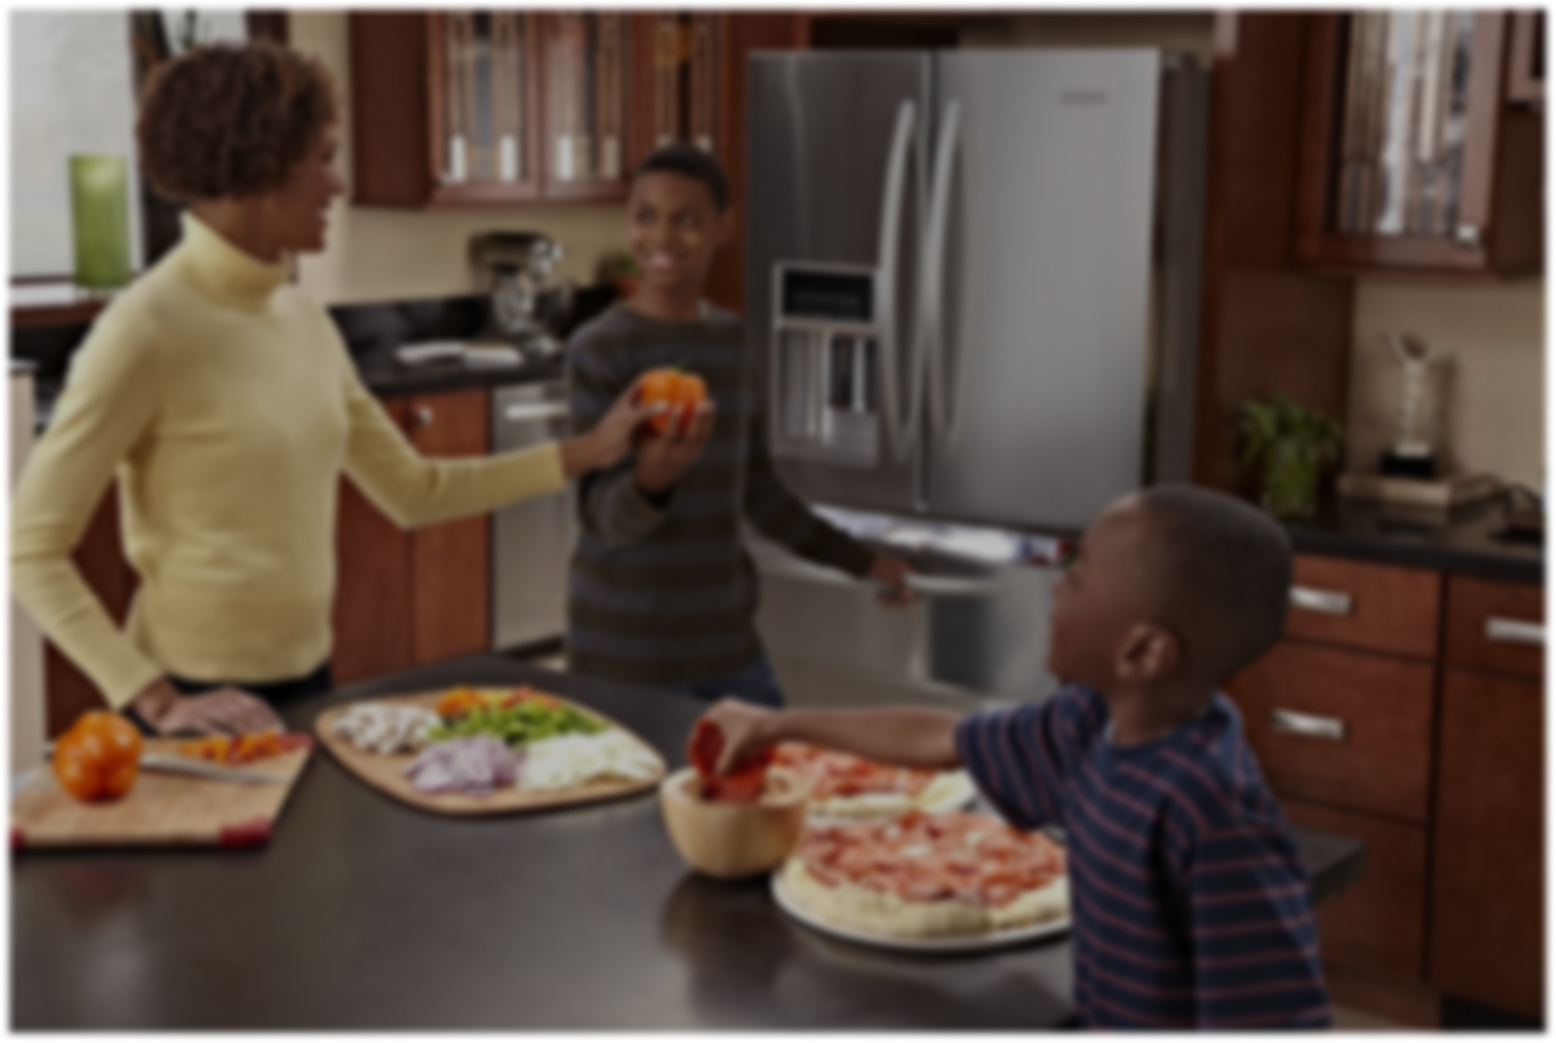
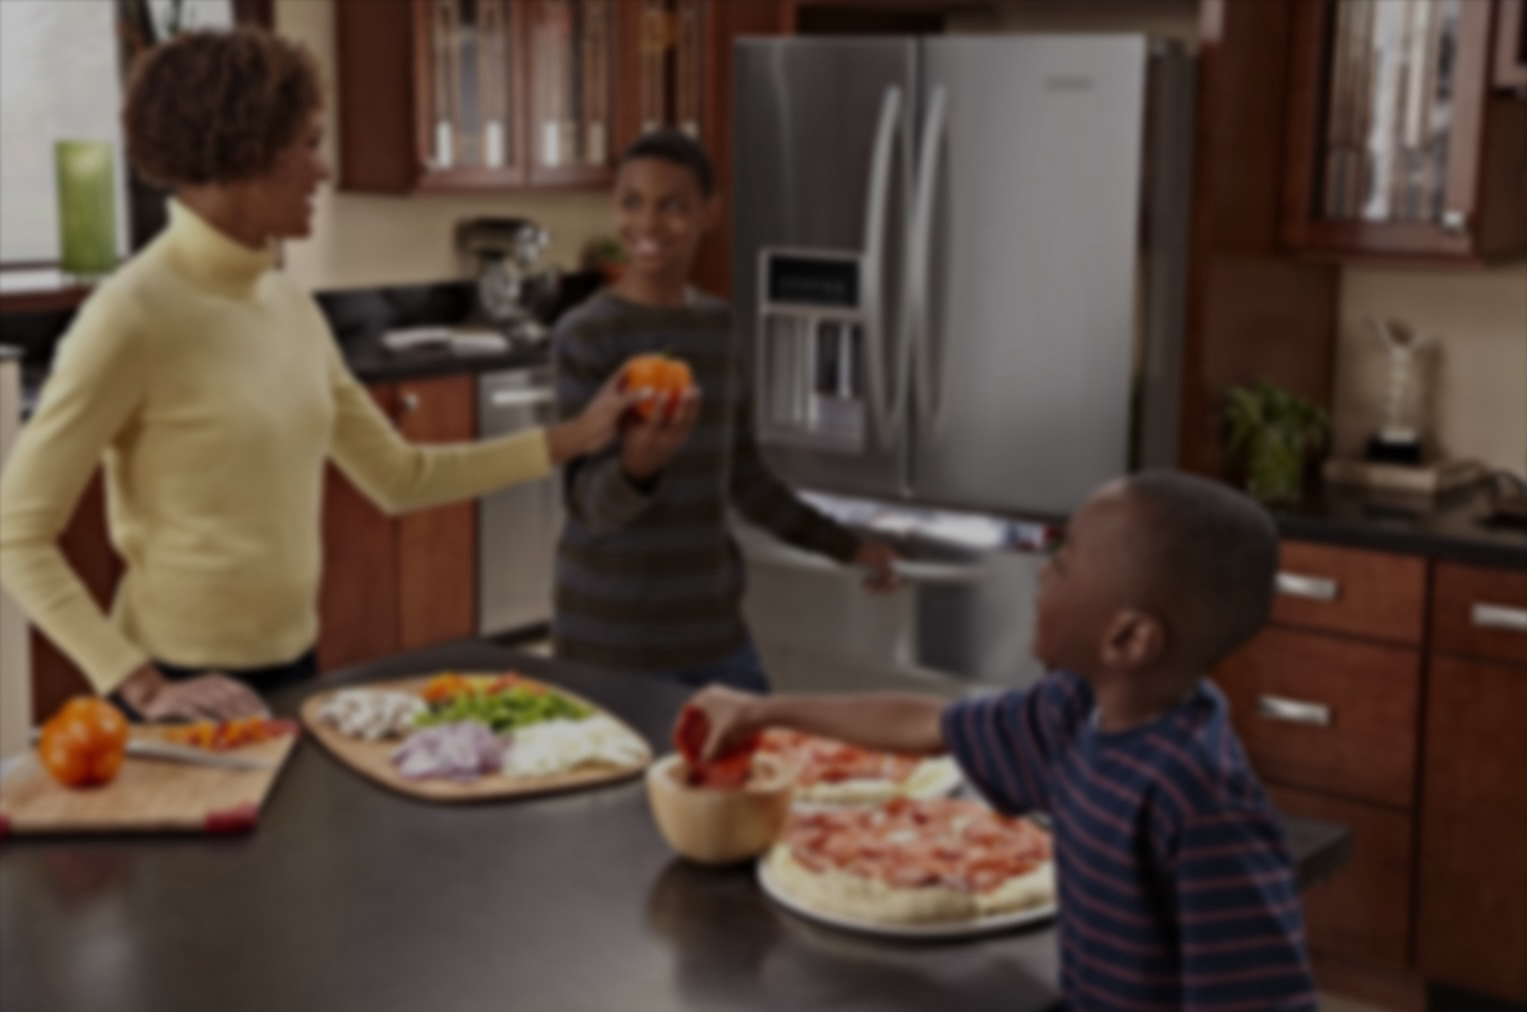
Authentication working with API, create a new layout now working and fixed the login page

diff --git a/WhirlpoolPromptWeb/wwwroot/css/site.css b/WhirlpoolPromptWeb/wwwroot/css/site.css
@@ -432,16 +432,6 @@ h3 {
   color: #3283cb;
 }
 
-.bg-image-column {
-  /* Asegúrate de que esta ruta apunte correctamente a tu imagen */
-  background-image: url("/images/login-bg.png");
-  background-size: cover;
-  /* Hace que la imagen cubra todo el espacio sin deformarse */
-  background-position: 15% 50%;
-  /* Centra la imagen */
-  background-repeat: no-repeat;
-}
-
 .btn-whirlpool {
   background-color: #4a919e;
   color: white;
@@ -463,12 +453,13 @@ h3 {
   color: #c98a18;
 }
 
-/* Solo aplica cuando existe .login-page en la página */
 body:has(.login-page) {
   overflow: hidden;
   height: 100%;
   margin: 0;
   padding: 0;
+  margin-bottom: 0;
+  background-color: #1a1a1a;
 }
 
 html:has(.login-page) {
@@ -478,7 +469,7 @@ html:has(.login-page) {
 
 .login-img-col {
   background-image: url("/images/login-bg.png");
-  background-size: 200%;
+  background-size: cover;
   /* ajusta hacia la izquierda */
   background-position: 1% 30%;
   background-repeat: no-repeat;
@@ -494,7 +485,6 @@ html:has(.login-page) {
   z-index: 2;
 }
 
-/* Login page: make the form a bit smaller and centered */
 .login-form-container {
   max-width: 700px;
   width: 100%;

diff --git a/WhirlpoolPromptWeb/Controllers/LoginController.cs b/WhirlpoolPromptWeb/Controllers/LoginController.cs
@@ -10,6 +10,14 @@ namespace WhirlpoolPromptWeb.Controllers;
 [Route("[controller]")]
 public class LoginController : Controller
 {
+
+    private readonly IAuthenticatorService _service;
+
+    public LoginController(IAuthenticatorService service)
+    {
+        _service = service;
+    }
+
     [HttpGet]
     [AllowAnonymous]
     public IActionResult Login()
@@ -19,73 +27,46 @@ public class LoginController : Controller
 
     [HttpPost]
     [AllowAnonymous]
-    public IActionResult Login(LoginModel model)
+    public async Task<IActionResult> Login(LoginModel model)
     {
         if (!ModelState.IsValid) return View(model);
 
         model.Email = model.Email.Trim();
         model.Password = model.Password.Trim();
 
-        bool userIsValid = UserAuthentication(model.Email, model.Password);
+        var userSession = await UserAuthentication(model.Email, model.Password);
 
-        if (userIsValid)
+        if (userSession != null)
         {
-            SetUserSession(1);
+            SetUserSession(userSession);
             return RedirectToAction("Check", "Login");
         }
 
         // agregar error si no se encuentra en la base de datos
-        ModelState.AddModelError(string.Empty, "Usuario o contraseña incorrectos.");
+        ModelState.AddModelError(string.Empty, "Correo o contraseña incorrectos.");
 
         return View(model);
 
+    }
+
+    private void SetUserSession(UserSession user)
+    {
+
+        HttpContext.Session.SetInt32("UserId", user.id_usuario);
+        HttpContext.Session.SetString("Name", user.nombre);
+        HttpContext.Session.SetString("ProfileAddr", user.imagen_perfil);
+        HttpContext.Session.SetInt32("Coins", user.saldo_total);
 
     }
 
-    private bool SetUserSession(int userID)
+
+    private async Task<UserSession> UserAuthentication(string email, string password)
     {
+        List<UserSession> userAuthentication = await _service.AuthenticateUserAPI(email, password);
+        if (userAuthentication == null || userAuthentication.Count == 0) return null;
 
-        UserSession user = getUserFromId(userID);
+        return userAuthentication[0];
 
-        HttpContext.Session.SetInt32("UserId", user.UserId);
-        HttpContext.Session.SetString("Name", user.Name);
-        HttpContext.Session.SetString("ProfileAddr", user.ProfileAddr);
-        HttpContext.Session.SetInt32("Coins", user.Coins);
-
-        return true;
-
-    }
-
-    private UserSession getUserFromId(int id)
-    {
-        UserSession user = new UserSession();
-
-        /* TODO: Obtener el user de la base de datos */
-        user.UserId = id;
-        user.Name = "Yoshi";
-
-        user.Coins = 67;
-
-        user.ProfileAddr = GetProfileAddr(ProfilePhoto.mario);
-
-        return user;
-    }
-
-    private string GetProfileAddr(ProfilePhoto profile)
-    {
-        switch (profile)
-        {
-            case ProfilePhoto.mario:
-                return "mario-bros.png";
-            default:
-                return "mario-bros.png";
-        }
-    }
-
-    private bool UserAuthentication(string user, string password)
-    {
-        // logica de autenticacion
-        return true;
     }
 
     [HttpGet("check")]
@@ -95,10 +76,10 @@ public class LoginController : Controller
 
         var model = new UserSession
         {
-            UserId = HttpContext.Session.GetInt32("UserId") ?? 0,
-            Name = HttpContext.Session.GetString("Name") ?? string.Empty,
-            ProfileAddr = HttpContext.Session.GetString("ProfileAddr") ?? string.Empty,
-            Coins = HttpContext.Session.GetInt32("Coins") ?? 0
+            id_usuario = HttpContext.Session.GetInt32("UserId") ?? 0,
+            nombre = HttpContext.Session.GetString("Name") ?? string.Empty,
+            imagen_perfil = HttpContext.Session.GetString("ProfileAddr") ?? string.Empty,
+            saldo_total = HttpContext.Session.GetInt32("Coins") ?? 0
         };
 
 

diff --git a/WhirlpoolPromptWeb/Services/AuthenticatorService.cs b/WhirlpoolPromptWeb/Services/AuthenticatorService.cs
@@ -1,0 +1,40 @@
+using System.Diagnostics;
+using System.Runtime.InteropServices;
+using System.Text.Json;
+using WhirlpoolPromptWeb.Models;
+
+public class AuthenticatorService : IAuthenticatorService
+{
+
+    private readonly HttpClient _httpClient;
+    public AuthenticatorService(HttpClient httpClient)
+    {
+        _httpClient = httpClient;
+    }
+
+    public async Task<List<UserSession>> AuthenticateUserAPI(string email, string password)
+    {
+        var url = "https://127.0.0.1:8081/authenticate";
+
+        var payload = new
+        {
+            email = email,
+            password = password
+        };
+
+        var json = JsonSerializer.Serialize(payload);
+
+        var content = new StringContent(json, System.Text.Encoding.UTF8,
+        "application/json");
+
+        var response = await _httpClient.PostAsync(url, content);
+
+        if (!response.IsSuccessStatusCode)
+            return new List<UserSession>();
+
+        var jsonResponse = await response.Content.ReadAsStringAsync();
+
+        return JsonSerializer.Deserialize<List<UserSession>>(jsonResponse) ?? new List<UserSession>();
+
+    }
+}

diff --git a/WhirlpoolPromptWeb/Program.cs b/WhirlpoolPromptWeb/Program.cs
@@ -2,6 +2,20 @@ var builder = WebApplication.CreateBuilder(args);
 
 // Add services to the container.
 builder.Services.AddControllersWithViews();
+
+builder.Services.AddHttpClient<IAuthenticatorService, AuthenticatorService>()
+.ConfigurePrimaryHttpMessageHandler(() =>
+new HttpClientHandler
+{
+    ServerCertificateCustomValidationCallback =
+HttpClientHandler.DangerousAcceptAnyServerCertificateValidator
+});
+
+builder.Services.Configure<Microsoft.AspNetCore.Mvc.JsonOptions>(options =>
+{
+    options.JsonSerializerOptions.PropertyNameCaseInsensitive = true;
+});
+
 builder.Services.AddDistributedMemoryCache();
 
 builder.Services.AddSession(options =>

diff --git a/WhirlpoolPromptWeb/Models/UserSession.cs b/WhirlpoolPromptWeb/Models/UserSession.cs
@@ -2,10 +2,10 @@ namespace WhirlpoolPromptWeb.Models
 {
     public class UserSession
     {
-        public int UserId { get; set; }
-        public string Name { get; set; }
-        public string ProfileAddr { get; set; }
-        public int Coins { get; set; }
+        public int id_usuario { get; set; }
+        public string nombre { get; set; }
+        public string imagen_perfil { get; set; }
+        public int saldo_total { get; set; }
     }
 
 }

diff --git a/WhirlpoolPromptWeb/Services/IAuthenticatorService.cs b/WhirlpoolPromptWeb/Services/IAuthenticatorService.cs
@@ -1,0 +1,9 @@
+using WhirlpoolPromptWeb.Models;
+
+
+public interface IAuthenticatorService
+{
+    Task<List<UserSession>> AuthenticateUserAPI(string email, string password);
+
+}
+
